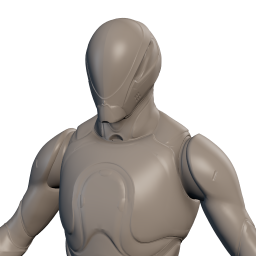
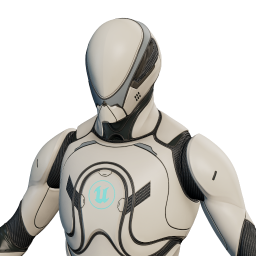
fix(portraits): wait for Viewport 2.0 to load the textures; Manny and the Orc D again
Viewport 2.0 loads textures only while Maya is idle: six draws with a sleep
between blasted the textured Manny near black, and the Orc D's shipped
portrait was half-loaded the same way (grey shoulder pads and belt). A
textured row now blasts until two agree (after three), running the idle
queue and Qt's events between. Both portraits rendered again in a
disposable Maya.

diff --git a/docs/superpowers/plans/make_character_portraits.py b/docs/superpowers/plans/make_character_portraits.py
@@ -175,6 +175,17 @@ def _save(raw, out):
     return corner.alpha()
 
 
+def _idle(seconds):
+    """Let Maya be idle for `seconds`: its idle queue and Qt's events, not a sleep."""
+    import maya.utils
+    from PySide6 import QtWidgets
+    end = time.time() + seconds
+    while time.time() < end:
+        maya.utils.processIdleEvents()
+        QtWidgets.QApplication.processEvents()
+        time.sleep(0.05)
+
+
 def render(model, out_dir):
     """One model's portrait into `out_dir`; its path and a line of numbers."""
     entry = catalog.character_for(model, "rig") or catalog.character_for(model, "skeleton")
@@ -194,16 +205,27 @@ def render(model, out_dir):
     camera = _camera(centre, side)
     _panel(camera)
     # Viewport 2.0 loads textures in the background: the first try at the
-    # Orc D blasted its shoulder pads black. A few forced draws, a pause.
-    for _ in range(6 if getattr(entry, "textured", False) else 1):
-        cmds.refresh(force=True)
-        if getattr(entry, "textured", False):
-            time.sleep(0.5)
+    # Orc D blasted its shoulder pads black, and six draws half a second apart
+    # still blasted the textured Manny (2026-09-30) near black. The loading
+    # moves on only while Maya is IDLE (a sleep holding the main thread let two
+    # blasts agree on a half-loaded torso), so between blasts the idle queue and
+    # Qt's events are run; a textured row is blasted until two agree.
     raw = os.path.join(out_dir, model + "_raw.png").replace("\\", "/")
-    cmds.playblast(frame=[cmds.currentTime(query=True)], format="image", compression="png",
-                   completeFilename=raw, widthHeight=(RENDER, RENDER), percent=100,
-                   viewer=False, showOrnaments=False, offScreen=True, forceOverwrite=True,
-                   clearCache=True, editorPanelName=PANEL)
+    previous = None
+    for attempt in range(40 if getattr(entry, "textured", False) else 1):
+        cmds.refresh(force=True)
+        cmds.playblast(frame=[cmds.currentTime(query=True)], format="image", compression="png",
+                       completeFilename=raw, widthHeight=(RENDER, RENDER), percent=100,
+                       viewer=False, showOrnaments=False, offScreen=True, forceOverwrite=True,
+                       clearCache=True, editorPanelName=PANEL)
+        with open(raw, "rb") as handle:
+            picture = handle.read()
+        if picture == previous and attempt >= 2:
+            print("%s: the picture settled after %d blasts" % (model, attempt + 1))
+            break
+        previous = picture
+        if getattr(entry, "textured", False):
+            _idle(1.0)
     out = os.path.join(out_dir, model + ".png").replace("\\", "/")
     alpha = _save(raw, out)
     os.remove(raw)
